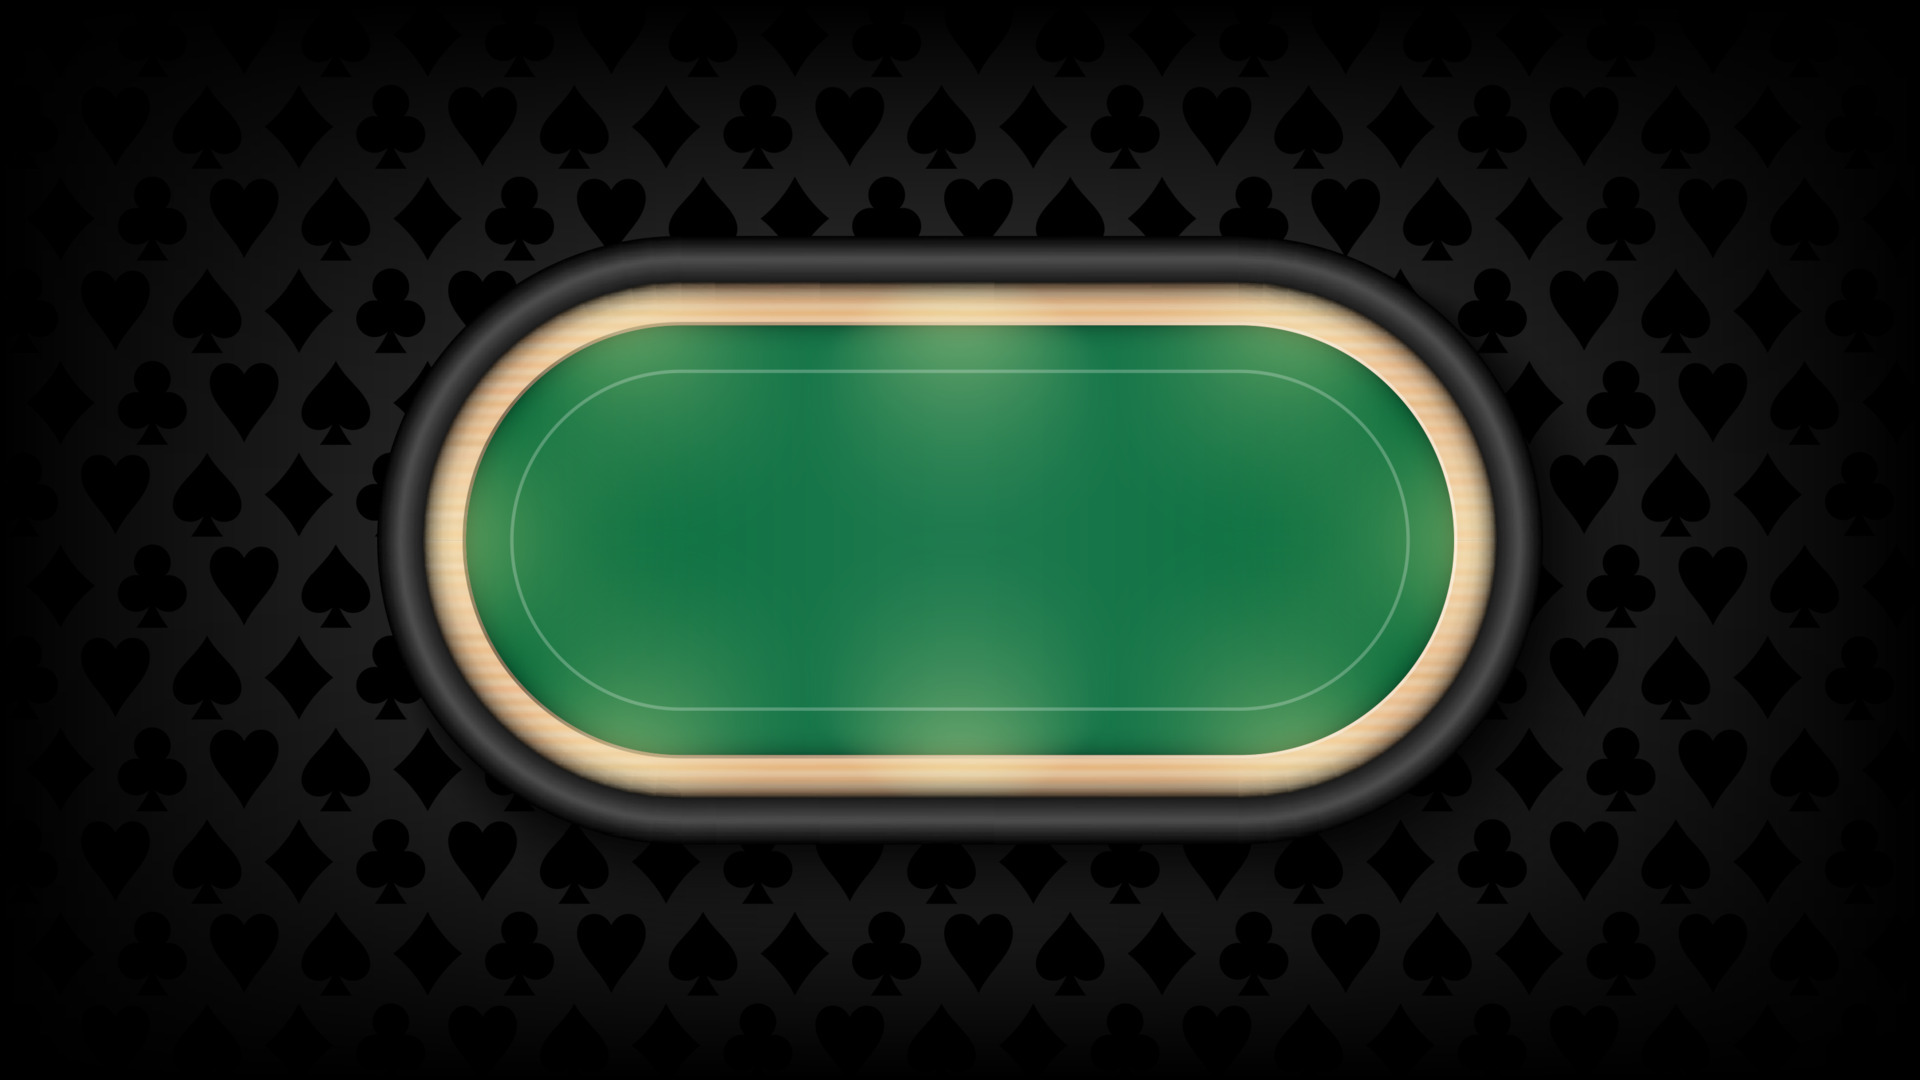
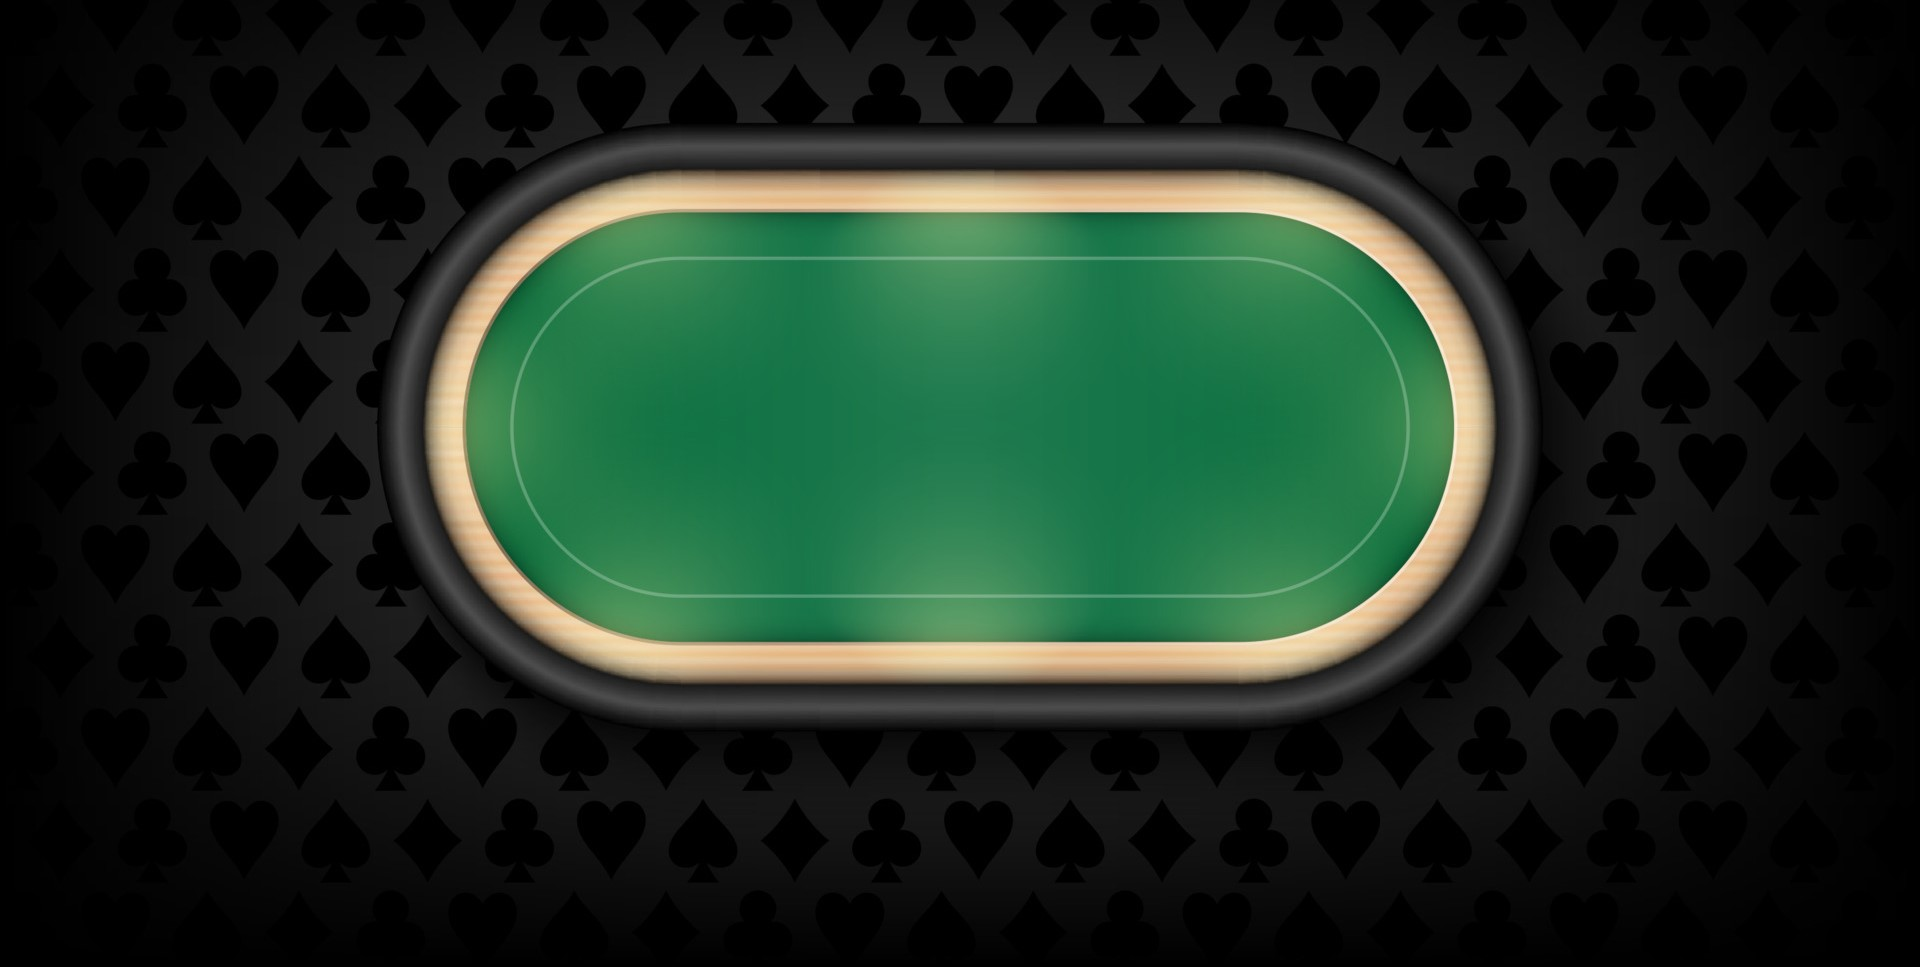
checking out main

Changed region(s): [[0.125, 0.031, 0.875, 0.7756], [0.8125, 0.4343, 0.875, 0.5274], [0.1562, 0.2172, 0.1875, 0.2482]]

diff --git a/my-app/src/routes/NewPage.tsx b/my-app/src/routes/NewPage.tsx
@@ -1,6 +1,18 @@
 import '../App.css';
 import { Typography, Button } from '@mui/material';
 import { Link } from 'react-router-dom';
+import * as React from 'react';
+import { styled } from '@mui/material/styles';
+import Paper from '@mui/material/Paper';
+import Grid from '@mui/material/Unstable_Grid2';
+
+const Item = styled(Paper)(({ theme }) => ({
+    backgroundColor: theme.palette.mode === 'dark' ? '#1A2027' : '#fff',
+    ...theme.typography.body2,
+    padding: theme.spacing(1),
+    textAlign: 'center',
+    color: theme.palette.text.secondary,
+}));
 
 function GoBack(){
     return(
@@ -17,9 +29,31 @@ export default function DisplayNewPage() {
     return(
         <div className="backgroundImage2">
             <header className="New-Game-Header">
-                <Typography variant="h1" color="white">New Game!</Typography>
+                <Typography variant="h3" color="white
+                ">New Game!</Typography>
                 <GoBack />
             </header>
+
+            <div className='table'>
+                <Grid container spacing={3} sx={{ flexGrow: 1 }}>
+                <Grid xs={6} xsOffset={3} md={2} mdOffset={0}>
+                    <Item>1</Item>
+                </Grid>
+                <Grid xs={4} md={2} mdOffset="auto">
+                    <Item>2</Item>
+                </Grid>
+                <Grid xs={4} xsOffset={4} md={2} mdOffset={0}>
+                    <Item>3</Item>
+                </Grid>
+                <Grid xs md={6} mdOffset={2}>
+                    <Item>4</Item>
+                </Grid>
+            </Grid>
+
+            </div>
+            
         </div>
+
+        
     );
 }

diff --git a/my-app/src/App.css b/my-app/src/App.css
@@ -19,13 +19,11 @@
   background-size: cover;
 }
 
-.backgroundImage2 { 
-  background-image: url("./poker_table.jpg");
-  background-repeat: no-repeat;
+.backgroundImage2 {
+  background-color: black;
   height: 100vh;
   width: 100%;
   position:fixed;
-  background-size: cover;
 }
 .App-header {
   text-align: center;
@@ -48,6 +46,16 @@
 
 .App-link {
   color: #61dafb;
+}
+
+.table{
+  background-image: url("./poker_table.jpg");
+  background-repeat: no-repeat;
+  height: 100vh;
+  width: 100%;
+  position:fixed;
+  background-position: center top;
+  background-size: 100%;
 }
 
 @keyframes ver-rotate {
